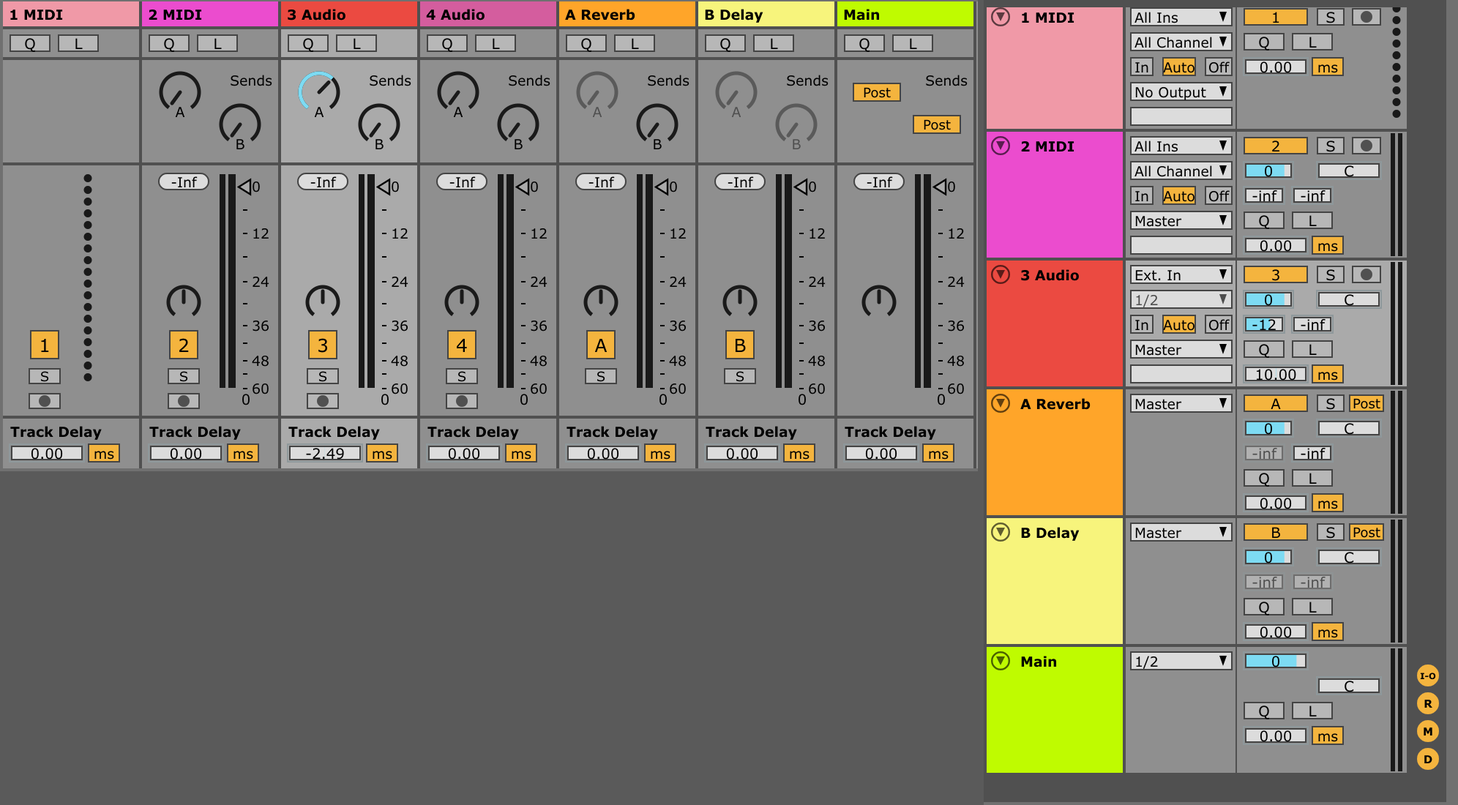
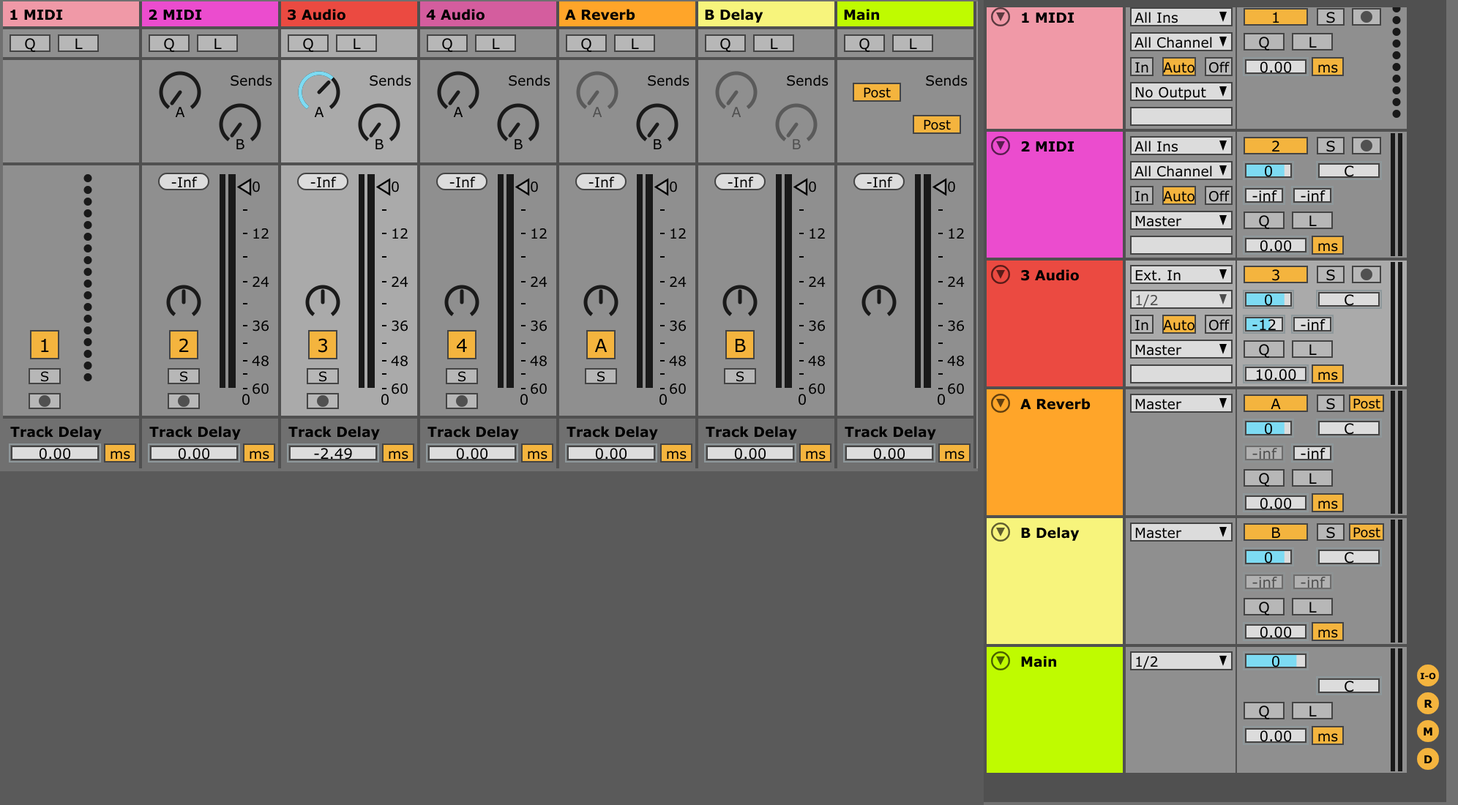
window: the Track Delay box drags up or down at 0.1 ms a pixel, Live's View menu groups, the section's band (B4 review)
The B4 reviews, against Live and against the code:

- The box dragged sideways, 8 ms a pixel (JUCE's horizontal bar over 250 px),
  where Live's value fields drag up or down (manual 6.3, 7.1): now JUCE's
  vertical bar, drawn as the number alone (LiveLook, `live.valueField`), with
  setMouseDragSensitivity(kDelayDragPixels = 20000) so a pixel is 0.1 ms,
  PROVISIONAL until Live's step is measured (M1-06); a shell check drags it
  20 px up from 10.00 to 12.00 ms, nothing written until the drag ends, then
  529 samples at 44.1 kHz in one step, undone to 441.
- The View menu's Mixer Controls submenu lacked Live's separator after Volume
  (manual 6.1, its figure): mixerOptionsMenu(bool viewMenu) draws it for the
  View menu only; the Mixer View Control's menu keeps the one before Return
  Tracks (18.1, its figure). The shell's menu checks now read separators, one
  menuLine() helper in place of three loops.
- The Mixer View's section is painted as the figure's darker band (look::frame)
  across every strip, the box across the strip (getWidth() - 32), the "ms" box
  at its right; the band's shade and the glyph beside "ms" are LK-03 measures.
- The "10.004 ms" check never reached setTrackDelay (the slider's own hundredth
  grid snapped it first): renamed to say so, and "10.01" typed at 44.1 kHz,
  the 441st sample again, now exercises the no-op branch: nothing written, the
  box back at 10.00.
- parity-7.6 row 19 lists the measures the reviews asked for (the drag's step
[…]

Changed region(s): [[0.0, 0.4945, 0.6847, 0.5873]]

diff --git a/adi_daw/tests/test_ui_shell.cpp b/adi_daw/tests/test_ui_shell.cpp
@@ -495,6 +495,22 @@ void liveParity(AppCommands &commands, const std::filesystem::path &dir, bool wr
               shownRows(root.mixer) == std::vector<std::int64_t>{1, 2, 3, 4},
           "Project shows every track again, the button unlit");
 }
+// A menu on one line: its items in order, a disabled one dashed, a ticked one starred when `ticks`
+// is set, a separator a bar, so a check sees Live's groups too.
+juce::String menuLine(const juce::PopupMenu &menu, bool ticks = true) {
+    juce::String out;
+    for (juce::PopupMenu::MenuItemIterator it(menu); it.next();) {
+        const auto &item = it.getItem();
+        if (item.isSeparator) {
+            out << " | ";
+            continue;
+        }
+        if (out.isNotEmpty() && !out.endsWith(" | "))
+            out << ", ";
+        out << item.text << (ticks && item.isTicked ? " *" : "") << (item.isEnabled ? "" : " -");
+    }
+    return out;
+}
 // A mouse press at a point of a component, for its own mouseDown.
 juce::MouseEvent pressAt(juce::Component &c, juce::Point<float> at, juce::ModifierKeys mods = {}) {
     const auto now = juce::Time::getCurrentTime();
@@ -1970,16 +1986,9 @@ void sendKnobs(AppCommands &commands, const std::filesystem::path &dir) {
           "and the Mixer Controls' Sends the Mixer View's");
     // Live 12's Mixer View Control options (manual 18.1): In/Out, Sends, Volume, Track Options,
     // Crossfader, Performance Impact, then Return Tracks; what ADI has not built is dimmed.
-    auto mixerOptions = [&root] {
-        juce::StringArray out;
-        const auto menu = root.mixerOptionsMenu();
-        for (juce::PopupMenu::MenuItemIterator it(menu); it.next();)
-            if (!it.getItem().isSeparator)
-                out.add(it.getItem().text + (it.getItem().isTicked ? " *" : "") + (it.getItem().isEnabled ? "" : " -"));
-        return out.joinIntoString(", ");
-    };
-    check(mixerOptions() == "In/Out, Sends *, Volume * -, Track Options, Crossfader -, Performance Impact -, Return Tracks *",
-          "the Mixer View's options in Live's order, In/Out and Track Options off");
+    auto mixerOptions = [&root] { return menuLine(root.mixerOptionsMenu()); };
+    check(mixerOptions() == "In/Out, Sends *, Volume * -, Track Options, Crossfader -, Performance Impact - | Return Tracks *",
+          "the Mixer View's options in Live's order and groups (manual 18.1, its figure), In/Out and Track Options off");
     // Its In/Out: Live 12's section under ADI's slots and over the sends; as many sends as still
     // leave the mixer its room, then the rest when the strip is taller.
     check(root.command(AppCommands::ToggleMixerInOut) && root.state().mixerInOut && mixerOptions().startsWith("In/Out *"),
@@ -2011,20 +2020,13 @@ void sendKnobs(AppCommands &commands, const std::filesystem::path &dir) {
     // under each strip's mixer, Main's too (Master Reference 8.1); the box reads ms to two places,
     // typed or dragged, a negative value pre-delays, and each change is one undo step written in
     // samples at the project's rate (N22, `TrackNode::delaySamples`).
-    auto trackControls = [&root] {
-        juce::StringArray out;
-        const auto menu = root.trackControlsMenu();
-        for (juce::PopupMenu::MenuItemIterator it(menu); it.next();)
-            if (!it.getItem().isSeparator)
-                out.add(it.getItem().text + (it.getItem().isTicked ? " *" : "") + (it.getItem().isEnabled ? "" : " -"));
-        return out.joinIntoString(", ");
-    };
+    auto trackControls = [&root] { return menuLine(root.trackControlsMenu()); };
     check(trackControls().endsWith("Volume * -, Track Options"), "the Arrangement Track Controls' Track Options, off");
     // The selection was set on the geometry alone; published, as a click publishes it, so each
     // delay step's undo puts it back (ADR-0021) rather than the session's older empty one.
     root.publishSelection();
     check(root.command(AppCommands::ToggleMixerTrackOptions) && root.state().mixerTrackOptions && !root.state().trackOptions &&
-              mixerOptions() == "In/Out, Sends *, Volume * -, Track Options *, Crossfader -, Performance Impact -, Return Tracks *" &&
+              mixerOptions() == "In/Out, Sends *, Volume * -, Track Options *, Crossfader -, Performance Impact - | Return Tracks *" &&
               trackControls().endsWith("Track Options"),
           "the Mixer Controls' Track Options shows the Mixer View's Track Delay, ticked; the track controls' stays off");
     column = rowOf(root.mixerView, 3);
@@ -2065,11 +2067,50 @@ void sendKnobs(AppCommands &commands, const std::filesystem::path &dir) {
                   "undone, 3 Audio reads 10.00 ms again");
         }
         if (column != nullptr) {
+            // The box's own grid is a hundredth: 10.004 snaps to the 10.00 it holds and nothing
+            // is committed.
             column->delay.setValue(10.004, juce::sendNotificationSync);
             root.frame();
             column = rowOf(root.mixerView, 3);
             check(column != nullptr && submitter.nextUndo()->txnId == stepTen && column->delay.getValue() == 10.,
-                  "10.004 ms is the same sample: nothing written, the box shows the grid's 10.00");
+                  "10.004 ms is the box's 10.00: nothing committed");
+        }
+        if (column != nullptr) {
+            // 10.01 ms the box takes, but at 44.1 kHz it is the 441st sample again (441.44): the
+            // helper writes no op and the box goes back to the grid's 10.00.
+            column->delay.setValue(column->delay.getValueFromText("10.01"), juce::sendNotificationSync);
+            root.frame();
+            column = rowOf(root.mixerView, 3);
+            const auto *same = root.reader().findTrack(3);
+            check(column != nullptr && same != nullptr && same->delaySamples == 441 && submitter.nextUndo()->txnId == stepTen &&
+                      column->delay.getTextFromValue(column->delay.getValue()) == "10.00",
+                  "10.01 ms typed is the same sample on the grid: nothing written, the box back at 10.00");
+        }
+        if (column != nullptr) {
+            // Dragged up or down, as Live's value fields are (manual 6.3, 7.1), not sideways: 20 px
+            // up from 10.00 is 12.00 ms at 0.1 ms a pixel (PROVISIONAL, M1-06), 529 samples at
+            // 44.1 kHz, written once at the drag's end.
+            const auto centre = column->delay.getLocalBounds().getCentre().toFloat();
+            const auto up = centre.translated(0.f, -20.f);
+            column->delay.mouseDown(pressAt(column->delay, centre));
+            column->delay.mouseDrag(dragAt(column->delay, centre, up));
+            const bool held = column->dragging() && column->delay.getValue() == 12. &&
+                              root.reader().findTrack(3) != nullptr && root.reader().findTrack(3)->delaySamples == 441;
+            column->delay.mouseUp(dragAt(column->delay, centre, up));
+            root.frame();
+            column = rowOf(root.mixerView, 3);
+            const auto *dragged = root.reader().findTrack(3);
+            check(held && column != nullptr && dragged != nullptr && dragged->delaySamples == 529 &&
+                      submitter.nextUndo()->txnId != stepTen && submitter.nextUndo()->label == "Change Track Delay" &&
+                      submitter.nextUndo()->opCount == 1 &&
+                      column->delay.getTextFromValue(column->delay.getValue()) == "12.00",
+                  "20 px up drags 10.00 to 12.00 ms, nothing written until the drag ends, then 529 samples in one step");
+            check(root.command(AppCommands::Undo), "undo the drag");
+            root.frame();
+            column = rowOf(root.mixerView, 3);
+            check(column != nullptr && submitter.nextUndo()->txnId == stepTen && root.reader().findTrack(3) != nullptr &&
+                      root.reader().findTrack(3)->delaySamples == 441,
+                  "undone, 3 Audio is at its 441 samples again");
         }
     }
     check(root.command(AppCommands::ToggleMixerTrackOptions) && !root.state().mixerTrackOptions, "Track Options off again");
@@ -4483,14 +4524,18 @@ int main(int argc, char **argv) {
               "the Options menu: Follow (§6.2), the grid (§6.10), Solo in Place (§18.6), then Settings off the Mac "
               "(§2.3)");
 #endif
-        // The new id's name through getCommandInfo: `names[id - PlayStop]` is a table by position, so
-        // an entry out of order mislabels a menu item with no compile error, and window/track-delay
-        // (B4) extends the same tail; whichever lands second re-aligns it and this check reads it.
+        // The new ids' names through getCommandInfo: `names[id - PlayStop]` is a table by position, so
+        // an entry out of order mislabels a menu item with no compile error. B5 (Solo in Place) landed
+        // first and B4 (window/track-delay) extends the same tail: SoloInPlace, then the two Track
+        // Options toggles, ToggleMixerTrackOptions the last id; this check reads the tail as aligned.
         {
-            juce::ApplicationCommandInfo info(C::SoloInPlace);
-            commands.getCommandInfo(C::SoloInPlace, info);
-            check(info.shortName == "Solo in Place" && C::LastId == C::SoloInPlace,
-                  "AppCommands::SoloInPlace is named Solo in Place and is the last id");
+            juce::ApplicationCommandInfo solo(C::SoloInPlace), rows(C::ToggleTrackOptions), mixer(C::ToggleMixerTrackOptions);
+            commands.getCommandInfo(C::SoloInPlace, solo);
+            commands.getCommandInfo(C::ToggleTrackOptions, rows);
+            commands.getCommandInfo(C::ToggleMixerTrackOptions, mixer);
+            check(solo.shortName == "Solo in Place" && rows.shortName == "Track Options" &&
+                      mixer.shortName == "Mixer Track Options" && C::LastId == C::ToggleMixerTrackOptions,
+                  "AppCommands' tail: Solo in Place, Track Options, Mixer Track Options (the last id), each named");
         }
         // The Options menu as drawn, with Solo in Place ticked, for the picture beside Live 12's.
         if (const auto pictures = juce::SystemStats::getEnvironmentVariable("ADI_UI_PARITY", {}); pictures.isNotEmpty())
@@ -4547,13 +4592,8 @@ int main(int argc, char **argv) {
             juce::StringArray submenus;
             std::vector<int> flat;
             juce::String trackControls, mixerControls;
-            auto texts = [](const juce::PopupMenu &menu) {
-                juce::StringArray out;
-                for (juce::PopupMenu::MenuItemIterator it(menu); it.next();)
-                    if (!it.getItem().isSeparator)
-                        out.add(it.getItem().text + (it.getItem().isEnabled ? "" : " -"));
-                return out.joinIntoString(", ");
-            };
+            // A ticked item is not marked here: the submenus' groups and dimmed items are the point.
+            auto texts = [](const juce::PopupMenu &menu) { return menuLine(menu, false); };
             for (juce::PopupMenu::MenuItemIterator it(viewMenu); it.next();) {
                 const auto &item = it.getItem();
                 if (item.subMenu != nullptr) {
@@ -4563,13 +4603,15 @@ int main(int argc, char **argv) {
                     flat.push_back(item.itemID);
             }
             auto has = [&flat](int id) { return std::find(flat.begin(), flat.end(), id) != flat.end(); };
+            // Live 12's groups (manual 6.1, the Mixer Controls submenu's figure): In/Out, Sends,
+            // Volume | Track Options, Crossfader, Performance Impact | Return Tracks.
             check(submenus == juce::StringArray{"Arrangement Track Controls", "Mixer Controls"} &&
-                      trackControls == "Hide/Show Track Controls, In/Out, Sends, Volume -, Track Options" &&
+                      trackControls == "Hide/Show Track Controls | In/Out, Sends, Volume -, Track Options" &&
                       mixerControls ==
-                          "In/Out, Sends, Volume -, Track Options, Crossfader -, Performance Impact -, Return Tracks" &&
+                          "In/Out, Sends, Volume - | Track Options, Crossfader -, Performance Impact - | Return Tracks" &&
                       !has(C::ToggleInOut) && !has(C::ToggleSends) && !has(C::ToggleReturnTracks) && !has(C::ToggleMixer),
-                  "the View menu holds Live 12's Arrangement Track Controls and Mixer Controls submenus, "
-                  "their toggles no longer loose in it");
+                  "the View menu holds Live 12's Arrangement Track Controls and Mixer Controls submenus in Live's "
+                  "groups, their toggles no longer loose in it");
         }
         // Live on Windows (§42.28): Alt and a menu's first letter opens that menu.
         check(menuForKey(*bar, juce::KeyPress('f', alt, 0)) == names.indexOf("File") &&

diff --git a/adi_daw/src/juce/ui_mixer.cpp b/adi_daw/src/juce/ui_mixer.cpp
@@ -169,21 +169,24 @@ MixerStrip::MixerStrip(MixerPanel &panel) : panel_(panel) {
     };
     // Live's Track Delay (manual 18.7): a value box reading the delay in ms to two places, Live's
     // "ms" box beside it (paintDelayUnit); a negative value pre-delays. Hidden until Live's Track
-    // Options shows it (resized). Its travel is the engine's playable second either way (ADR-0172,
+    // Options shows it (resized). Dragged up or down, as Live's value fields are (manual 6.3, the
+    // Arrangement Position fields; 7.1, the scene fields): JUCE's vertical bar, drawn as the number
+    // alone (LiveLook, `live.valueField`), a pixel 0.1 ms, PROVISIONAL until Live's step is
+    // measured (M1-06). Its travel is the engine's playable second either way (ADR-0172,
     // `StripNode::kMaxDelaySeconds`); Live's own range is to be measured.
-    delay.setSliderStyle(juce::Slider::LinearBar);
+    delay.setSliderStyle(juce::Slider::LinearBarVertical);
     delay.setTextBoxStyle(juce::Slider::TextBoxLeft, false, 0, 0);
     delay.setSliderSnapsToMousePosition(false);
     delay.setColour(juce::Slider::textBoxTextColourId, look::text);
-    delay.getProperties().set("live.bipolar", true);
+    delay.getProperties().set("live.valueField", true);
     delay.setRange(-1000, 1000, .01);
+    delay.setMouseDragSensitivity(kDelayDragPixels);
     delay.textFromValueFunction = [](double v) { return juce::String(v, 2); };
     // Typed with or without its unit: "10", "10 ms", "-2.5ms".
     delay.valueFromTextFunction = [](const juce::String &text) {
         return text.trim().upToFirstOccurrenceOf("ms", false, true).trim().getDoubleValue();
     };
     delay.updateText();
-    delay.setDoubleClickReturnValue(true, 0);
     delay.setTitle("Track Delay");
     delay.setTooltip("Delays the track's output by this many milliseconds; a negative value pre-delays it.");
     delay.setScrollWheelEnabled(false);
@@ -391,8 +394,9 @@ void MixerStrip::resized() {
         shown_ = showsSends() ? returnCount_ : 0;
         while (shown_ > 0 && mixerBottom() - sendsTop() - sendsHeight(shown_) < kMixerRoom)
             --shown_;
+        // Live's figure: the box across the strip, the "ms" box at its right edge.
         delay.setVisible(delay_ > 0);
-        delay.setBounds(4, mixerBottom() + 19, 52, 13);
+        delay.setBounds(4, mixerBottom() + 19, getWidth() - 32, 13);
         for (std::size_t i = 0; i < sends_.size(); ++i) {
             sends_[i]->setVisible(i < shown_);
             sends_[i]->setBounds(sendBounds(i));
@@ -536,9 +540,13 @@ void MixerStrip::paint(juce::Graphics &g) {
             }
         }
         if (delay_ > 0) {
-            // Live's Track Delay section under the mixer (manual 18.7, its figure): a rule, its
-            // title, the value box with the lit "ms" box beside it.
+            // Live's Track Delay section under the mixer (manual 18.7, its figure): a band darker
+            // than the mixer above it, across every strip, a rule over it; its title, the value box
+            // across the strip with the lit "ms" box at its right. The band's shade is the figure's,
+            // not measured (LK-03).
             const int top = mixerBottom();
+            g.setColour(look::frame);
+            g.fillRect(0, top, w, delay_);
             g.setColour(look::separator);
             g.fillRect(0, top, w, 2);
             g.setColour(look::text);

diff --git a/adi_daw/src/juce/ui_shell.cpp b/adi_daw/src/juce/ui_shell.cpp
@@ -952,15 +952,19 @@ void AdiRootComponent::resizeDevices(int height) {
     resized();
 }
 bool AdiRootComponent::persist() { return persistence_.save(window_, state_, error_); }
-juce::PopupMenu AdiRootComponent::mixerOptionsMenu() {
+juce::PopupMenu AdiRootComponent::mixerOptionsMenu(bool viewMenu) {
     // Live 12's order (manual 18.1, the Mixer View Control's options menu). Volume always shows in
     // ADI; Track Options is the Mixer View's Track Delay section (manual 18.7); the crossfader and
-    // Performance Impact wait on the engine.
+    // Performance Impact wait on the engine. The View menu's Mixer Controls submenu (manual 6.1,
+    // its figure) draws a separator after Volume too; the Mixer View Control's own menu (18.1, its
+    // figure) only the one before Return Tracks.
     commands_.activate(*this);
     juce::PopupMenu menu;
     menu.addCommandItem(&commands_.manager, AppCommands::ToggleMixerInOut, "In/Out");
     menu.addCommandItem(&commands_.manager, AppCommands::ToggleMixerSends, "Sends");
     menu.addItem(juce::PopupMenu::Item("Volume").setTicked(true).setEnabled(false));
+    if (viewMenu)
+        menu.addSeparator();
     menu.addCommandItem(&commands_.manager, AppCommands::ToggleMixerTrackOptions, "Track Options");
     menu.addItem(juce::PopupMenu::Item("Crossfader").setEnabled(false));
     menu.addItem(juce::PopupMenu::Item("Performance Impact").setEnabled(false));
@@ -1949,7 +1953,7 @@ class ShellMenu final : public juce::MenuBarModel {
                     else if (id == kTrackControlsMenu)
                         menu.addSubMenu("Arrangement Track Controls", root.trackControlsMenu());
                     else if (id == kMixerControlsMenu)
-                        menu.addSubMenu("Mixer Controls", root.mixerOptionsMenu());
+                        menu.addSubMenu("Mixer Controls", root.mixerOptionsMenu(true));
                     else
                         menu.addCommandItem(&commands.manager, id);
                 }

diff --git a/adi_daw/src/juce/ui_mixer.hpp b/adi_daw/src/juce/ui_mixer.hpp
@@ -65,10 +65,14 @@ class MixerStrip final : public juce::Component, public juce::SettableTooltipCli
     float peak() const noexcept { return peak_; }
     float rms() const noexcept { return rms_; }
     juce::Slider volume, pan;
-    // Live's Track Delay (manual 18.7): a value box in milliseconds, typed or dragged, a negative
-    // value pre-delaying; its "ms" unit box beside it. Shown by Live's Track Options: on the row
-    // under ADI's slots in the track controls, and as the section under the mixer in the Mixer View.
+    // Live's Track Delay (manual 18.7): a value box in milliseconds, typed or dragged up or down, a
+    // negative value pre-delaying; its "ms" unit box beside it. Shown by Live's Track Options: on
+    // the row under ADI's slots in the track controls, and as the section under the mixer in the
+    // Mixer View.
     juce::Slider delay;
+    // The drag's travel: the box's 2000 ms over this many pixels, 0.1 ms a pixel (PROVISIONAL,
+    // Live's step is M1-06).
+    static constexpr int kDelayDragPixels = 20000;
     juce::TextButton active, eq{"Q"}, limiter{"L"};
     SoloButton solo{"S"};
     ArmButton arm;

diff --git a/adi_daw/src/juce/ui_shell.hpp b/adi_daw/src/juce/ui_shell.hpp
@@ -295,8 +295,9 @@ class AdiRootComponent final : public juce::Component {
     // Drag the Mixer View's top edge: taller strips, never past one track row.
     void resizeMixerView(int height);
     // Live 12's Mixer View Control options (manual 18.1, "show or hide mixer components"): In/Out,
-    // Sends, Volume, Track Options, Crossfader, Performance Impact, then Return Tracks.
-    juce::PopupMenu mixerOptionsMenu();
+    // Sends, Volume, Track Options, Crossfader, Performance Impact, then Return Tracks. The View
+    // menu's Mixer Controls submenu is the same list with Live's separator after Volume (manual 6.1).
+    juce::PopupMenu mixerOptionsMenu(bool viewMenu = false);
     // Live 12's Arrangement Track Controls submenu of the View menu: ADI's Hide/Show Track Controls
     // (the side panel), then the track controls' In/Out and Sends (Ctrl/Cmd+Alt+I, Ctrl/Cmd+Alt+S),
     // Volume and Track Options. The View menu's Mixer Controls submenu is mixerOptionsMenu().

diff --git a/adi_daw/src/juce/ui_look.cpp b/adi_daw/src/juce/ui_look.cpp
@@ -143,6 +143,10 @@ void LiveLook::drawLinearSlider(juce::Graphics &g, int x, int y, int w, int h, f
     if (style == juce::Slider::LinearBar || style == juce::Slider::LinearBarVertical) {
         // Live's value box: light, filled in blue up to the value.
         box(g, r.reduced(0.5f), chooser);
+        // A value field dragged up or down (the Track Delay's, manual 18.7): the number alone in
+        // the box, as Live's figure shows it; JUCE's vertical bar gives it Live's drag axis.
+        if (s.getProperties()["live.valueField"])
+            return;
         g.setColour(value);
         const auto inner = r.reduced(1.f);
         if (style == juce::Slider::LinearBarVertical)

diff --git a/adi_daw/collab/window/parity-7.6-mixer.md b/adi_daw/collab/window/parity-7.6-mixer.md
@@ -26,5 +26,5 @@ Drafted by the window lane (ADR-0208) from the Live 12 manual (`live12-manual-en
 | 16 | The mixer from the keyboard: Move Focus to Mixer (Alt+Shift+M, Option on the Mac); Next and Previous Neighbor (Ctrl+Tab and Ctrl+Shift+Tab, Option on the Mac, also in the Navigate menu) move to the same control on the next or previous track | online §41.4.1.2, §42.16 | Alt/Option+Shift+M focuses the selected track's Track Activator, in the Mixer View when it is open, else in the track controls, shown first if hidden. The Neighbor keys move between the same switches (Activator, Solo, Arm, ADI-Q, ADI-L) track to track; at either end the focus stays. A neighbour out of view is brought into view first: the Mixer View scrolls sideways, the track controls with the arrangement, a row's top kept in view (`window/mixer-scroll`). A click on a mixer switch no longer takes the keyboard focus, so a focused one is always the keyboard's, and Live 12's ring marks it (`window/mixer-keys`) | partial: volume and pan take no keyboard focus. Keys that change a value wait for win's ruling on how a non-parameter edit coalesces (row 3). |
 | 17 | A return's row and strip: its letter in the activator, Solo, and Pre/Post where a track has Arm; Main's: no activator, Solo or Arm, its output (1/2), its volume and the cue volume; in the Mixer, Main's Sends section holds each return's Pre/Post | Live 12's Arrangement and Mixer figures (manual 6.1, 6.15); ADR-0203 d3 | A return's activator shows its letter (A, B, in the returns' order); its Pre/Post sits where a track has Arm, lit while its sends tap after the fader, read from the return's own switch (`TrackNode::returnSendTap`), so a return no send reaches yet shows and keeps its choice (`window/return-pre-post`); its In/Out column shows only its output. Main's row has no activator, Solo or Arm, its volume where a track has its activator, and only its output, 1/2, in the In/Out column. In the Mixer View, a return's strip has no Arm, Main's no activator, Solo or Arm, and Main's Sends section holds each return's Pre/Post switch where a track has its knobs. Next and Previous Neighbor pass Main by for the activator, Solo and Arm (`window/return-main-rows`) | partial: Main's cue volume and Live's Solo/Cue switch wait for a cue volume in the format and an op (N43). Measure on Live: whether Post is lit or Pre |
 | 18 | A MIDI track's row and strip: All Ins and All Channels; with no instrument, no volume, pan or sends, No Output, and a MIDI meter; with one, the audio mixer and Main | look-live11.md difference row 3 (the director's Live 11.2.7 capture); Live 12 manual Figure 6.1 (Strum) | A MIDI or instrument track shows All Ins and All Channels, cut at the box's edge as Live cuts "All Channe". What the track holds decides its mixer (ADR-0045): with no instrument plug-in on it (`plugin_refs.subtype`, read into the window's device publication), no volume, pan or sends, No Output, ADI-Q and ADI-L on the second row, and a MIDI meter of dark dots in a column (Live 12 manual, the Mixer in Arrangement View, 2 MIDI); in the Mixer View its switches and that meter only; an instrument on it brings the volume, pan, a send per return and Master (`window/midi-rows`) | partial: the MIDI meter stays dark (no note activity reaches the window yet); a rack's kind has no values in the format, so an instrument rack does not count yet; Live 12's Mixer figure shows such a track with no sends and a blank Sends section, as ADI's; measure Live's MIDI Arm icon |
-| 19 | The Mixer View Control's options (the arrow beside it): In/Out, Sends, Volume, Track Options, Crossfader, Performance Impact, then Return Tracks; the Mixer's In/Out section | Live 12 manual 18.1 ("show or hide mixer components"); the Mixer in Arrangement View, with In/Out (figure) | The Status Bar's Mixer button has Live's arrow; its menu in Live's order, Sends and Return Tracks the View menu's toggles, In/Out the Mixer View's own (kept per window, hidden until shown). The In/Out section stands under ADI's slots and over the sends: Audio From or MIDI From with its two choosers, Monitor, Audio To or MIDI To and its chooser; a return's Audio To level with the tracks'; Main's Cue Out (dimmed, N23) and Main Out. A strip too short for it and the mixer leaves it out (`window/mixer-options`). Track Options is Live's Track Delay section (manual 18.7) under each strip's mixer, Main's too (MR 8.1), the mixer moving up for it: its title, a value box in ms to two places, typed or dragged, a negative value pre-delaying, Live's lit "ms" box beside it; one `mixer.setDelay` per change, samples = ms × rate / 1000 to the nearest sample at the project's rate, read back as 1000 × samples / rate; a value the grid already holds writes nothing; kept per window (`mixerTrackOptions`), hidden until shown (`window/track-delay`) | partial: Volume always shows; the crossfader and Performance Impact are dimmed; the choosers show ADI's fixed routing (look-live11 row 5); the Track Delay stays available while Delay Compensation is off until that switch exists (N24); the "ms" box is Live's look only, its unit switch and Live's range are to be measured; Keep Latency under it is C6's; measure whether Live's ⌥⌘I switches the Mixer's In/Out or the track controls' |
+| 19 | The Mixer View Control's options (the arrow beside it): In/Out, Sends, Volume, Track Options, Crossfader, Performance Impact, then Return Tracks; the Mixer's In/Out section | Live 12 manual 18.1 ("show or hide mixer components"); the Mixer in Arrangement View, with In/Out (figure) | The Status Bar's Mixer button has Live's arrow; its menu in Live's order, Sends and Return Tracks the View menu's toggles, In/Out the Mixer View's own (kept per window, hidden until shown). The In/Out section stands under ADI's slots and over the sends: Audio From or MIDI From with its two choosers, Monitor, Audio To or MIDI To and its chooser; a return's Audio To level with the tracks'; Main's Cue Out (dimmed, N23) and Main Out. A strip too short for it and the mixer leaves it out (`window/mixer-options`). Track Options is Live's Track Delay section (manual 18.7) under each strip's mixer, Main's too (MR 8.1), the mixer moving up for it: a band darker than the mixer, as its figure, its title, a value box across the strip in ms to two places, typed or dragged up or down as Live's value fields are (manual 6.3, 7.1; 0.1 ms a pixel, PROVISIONAL), a negative value pre-delaying, Live's lit "ms" box at its right; one `mixer.setDelay` per change, at a drag's end, samples = ms × rate / 1000 to the nearest sample at the project's rate, read back as 1000 × samples / rate (so -2.5 typed at 44.1 kHz shows -2.49); a value the grid already holds writes nothing; kept per window (`mixerTrackOptions`), hidden until shown; the View menu's copy of the Mixer Controls list draws Live's separator after Volume (manual 6.1, its figure), the Mixer View Control's menu only the one before Return Tracks (18.1, its figure) (`window/track-delay`) | partial: Volume always shows; the crossfader and Performance Impact are dimmed; the choosers show ADI's fixed routing (look-live11 row 5); the Track Delay stays available while Delay Compensation is off until that switch exists (N24); the "ms" box is Live's look only; Keep Latency under it is C6's. Measure on Live 12 (M1-06): the drag's step per pixel and under Shift, the range, what the "ms" box offers (ms, samples?), and whether the field keeps the typed milliseconds or shows the grid's value (if the typed figure, ADI should keep the typed text while the grid's value is within a hundredth of it); the undo label (M2-12; ADI's "Change Track Delay" is a guess); the band's shade, the box's width and the small glyph between the box and "ms" in the figure (LK-03, LK-06); whether Live's ⌥⌘I switches the Mixer's In/Out or the track controls' |
 | 20 | A group's row and strip: no input or monitoring, its output only; a grouped track's Audio To its group | Live 12 manual 18.3 ("their Audio To routing choosers are automatically assigned to their Group Track"; a group "cannot contain clips") | A group's In/Out column, and its Mixer In/Out section, show its output only, as a return's; a track in a group plays to "Group", nested groups too; Master otherwise (`window/group-rows`). Live 12's figure of a group's strip (manual 18.3): a group has no Arm, its Solo shows half coloured, corner to corner, while a track inside it is soloed, and a return's or a group's Audio To has an empty chooser under it (`window/group-strip`) | partial: ADI's fixed routing (look-live11 row 5); measure Live's label for a grouped track's output ("Group" or the group's name) |

diff --git a/adi_daw/collab/window/parity-7.2-shell.md b/adi_daw/collab/window/parity-7.2-shell.md
@@ -37,8 +37,8 @@ Status: **built** (in this PR, with a check in `tests/test_ui_shell.cpp`), **par
 | 23 | Hide/Show Overview: Ctrl/Cmd+Alt+O, the View menu | online §42.1 | The Overview's row goes, the ruler and the lanes move up, and the track controls' rows stay level with them; kept per window in `ui_view` | built; measure what Live does with H and W when the Overview is hidden (ADI leaves them at the top right) |
 | 24 | Hide/Show In/Out: Ctrl/Cmd+Alt+I, the View menu | online §42.1 | The track controls lose their In/Out column and narrow by it, so the arrangement widens; the panel's stored width is kept for when it comes back; kept per window | built; the Mixer View's In/Out is its own switch, in the Mixer View Control's options, as Live 12's Mixer Controls (`window/mixer-options`, parity-7.6 row 19) |
 | 25 | — (ADI addition) the side swap, for Bitwig and Cubase hands | ADR-0080; Master Reference 1.1, 3.2 | Small arrows under the strip's two view switches, "Flip sides" on hovering, lit while flipped, and View › Flip Sides (`window/swap-panels`). Flipped, the director's layout C (28 October 2026): Live's strip at the window's left edge, the track names, the track controls, then the lanes; the browser on the right; each panel keeps its width; a swap that cannot fit is refused in the Status Bar | built |
-| 26 | Hide/Show Sends: Ctrl/Cmd+Alt+S, the View menu (Live 12: the Mixer Controls and Arrangement Track Controls submenus) | online §42.1; manual 6.15, 18.1 | The sends leave the track controls' rows, ADI-Q and ADI-L moving up under volume and pan, and the Mixer View strips lose their Sends section, Main's Pre/Post switches with it, the mixer moving to the strip's head; kept per window (`window/view-selectors`) | built: Live 12's two View submenus (`window/view-submenus`): Arrangement Track Controls holds ADI's Hide/Show Track Controls (the side panel), then the track controls' In/Out and Sends with their keys, Volume and Track Options (the rows' Track Delay box, `trackOptions`, kept per window; `window/track-delay`); Mixer Controls holds the Mixer View Control's options (In/Out, Sends, Volume, Track Options, Crossfader, Performance Impact, Return Tracks), the Mixer View's own Sends and Track Options apart from the track controls' (`mixerSends`, `mixerTrackOptions`, kept per window). Measure: Live 12's figure (manual 18.1) shows ⌥⌘I and ⌥⌘S beside the Mixer View Control's In/Out and Sends, so the keys may be the Mixer's; ADI keeps them on the track controls, as In/Out's (7.6 row 19), and Live's full Arrangement Track Controls list (its 6.1 says track delays are the mixer's only; ADI keeps Live 11's D) |
-| 27 | The Mixer Section selectors at the strip's foot (Live 11: I-O, R, M, D) repeat the View menu's toggles, each lit while its part shows | Live 11 manual 18.1 ("the Mixer Section selectors ... duplicate the View Menu commands") | I-O switches In/Out and R the return tracks, each lit while shown, with a tooltip naming its key (`window/view-selectors`); D switches the track controls' Track Options, the rows' Track Delay box, lit while it shows (`window/track-delay`) | partial: M stays lit (the track controls' mixer has no toggle yet) |
+| 26 | Hide/Show Sends: Ctrl/Cmd+Alt+S, the View menu (Live 12: the Mixer Controls and Arrangement Track Controls submenus) | online §42.1; manual 6.15, 18.1 | The sends leave the track controls' rows, ADI-Q and ADI-L moving up under volume and pan, and the Mixer View strips lose their Sends section, Main's Pre/Post switches with it, the mixer moving to the strip's head; kept per window (`window/view-selectors`) | built: Live 12's two View submenus (`window/view-submenus`): Arrangement Track Controls holds ADI's Hide/Show Track Controls (the side panel), then the track controls' In/Out and Sends with their keys, Volume and Track Options (the rows' Track Delay box, `trackOptions`, kept per window; `window/track-delay`); Mixer Controls holds the Mixer View Control's options in Live's groups (In/Out, Sends, Volume | Track Options, Crossfader, Performance Impact | Return Tracks; manual 6.1, its figure), the Mixer View's own Sends and Track Options apart from the track controls' (`mixerSends`, `mixerTrackOptions`, kept per window). ADI addition: Live 12's 6.1 says track delays are the mixer's only, so the Arrangement Track Controls' Track Options item and the rows' Track Delay box are ADI's, carried from Live 11's D selector as the work list asks (B4: shown by D and by the Track Options items); Live's Mixer Controls item and section are built as Live's. Measure: Live 12's figure (manual 18.1) shows ⌥⌘I and ⌥⌘S beside the Mixer View Control's In/Out and Sends, so the keys may be the Mixer's; ADI keeps them on the track controls, as In/Out's (7.6 row 19), and Live's full Arrangement Track Controls list |
+| 27 | The Mixer Section selectors at the strip's foot (Live 11: I-O, R, M, D) repeat the View menu's toggles, each lit while its part shows | Live 11 manual 18.1 ("the Mixer Section selectors ... duplicate the View Menu commands") | I-O switches In/Out and R the return tracks, each lit while shown, with a tooltip naming its key (`window/view-selectors`); D switches the track controls' Track Options, the rows' Track Delay box, lit while it shows (`window/track-delay`; an ADI addition in Live 12's terms, row 26) | partial: M stays lit (the track controls' mixer has no toggle yet) |
 | 28 | The Control Bar's Time Signature fields: typed or adjusted, they change the time signature at the current play location, stopped or playing; an automation LED in their upper left corner while the arrangement holds changes | Live 12 manual 6.5 and its figure | A click on the field opens a field over it holding the signature shown; the value typed (as Live takes them: one or two digits over 1, 2, 4, 8 or 16) changes the signature in force at the play location, one step: a marker's where one is in force, else the start's, inserted when the project stores none and replaced when it does (the snapshot cannot tell a stored 4/4 at the start from its own, so the insert is tried first, and a refusal leaves nothing behind); a value refused keeps the field open, the Status Bar saying what to type; Esc or a click elsewhere closes it. The LED lights while the arrangement holds a change (`window/signature-field`) | partial: ADI's one field takes both numbers (Live has a numerator field and a denominator field); dragging to adjust is not built. Measure: the LED's size and colour, and Live's undo label for the change |
 | 29 | The Control Bar's Tempo field adjusts the playback tempo; it shows the coarse tempo in BPM and the fine tempo in hundredths | Live 12 manual 9.1.1 and its figure | A click on the field opens a field over it holding the tempo shown; the value typed, 20 to 999 BPM with hundredths at most, sets the tempo in force at the play location, one step ("Change Tempo"): a tempo change's where one is in force (its curve kept), else the start's, inserted when the project stores none and replaced when it does, as the Time Signature field does (row 28); a value refused keeps the field open, the Status Bar saying what to type (`window/tempo-field`) | partial: Live's coarse and fine parts are dragged or mapped apart, and neither drag nor mapping is built; with tempo changes Live's field and the tempo's automation (manual 26.9.1) interact, which waits for automation, so ADI's reading edits the change in force; nudging is not built. Measure Live's undo label |
 | 30 | Tap Tempo: clicking the Tap button once every beat makes the tempo follow the clicking, at once, more accurately the more you tap; a key or MIDI can be mapped to it; with Start Playback with Tap Tempo, four taps in 4/4 start playback | Live 12 manual 9.1.2 | The Tap button acts on its press. From a run's second tap the tempo at the play location is a minute over the mean of the run's last sixteen intervals at most (`TapTempo`), 20 to 999 BPM, through the Tempo field's edit (row 29); a run is one undo step ("Tap Tempo"), each tap replacing the run's step while it is still the latest; a pause of more than two seconds starts a new run (`window/tap-tempo`) | partial: the pause that ends a run is PROVISIONAL, to be measured on Live; Key Map and MIDI Map Mode, and Start Playback with Tap Tempo, are not built |
